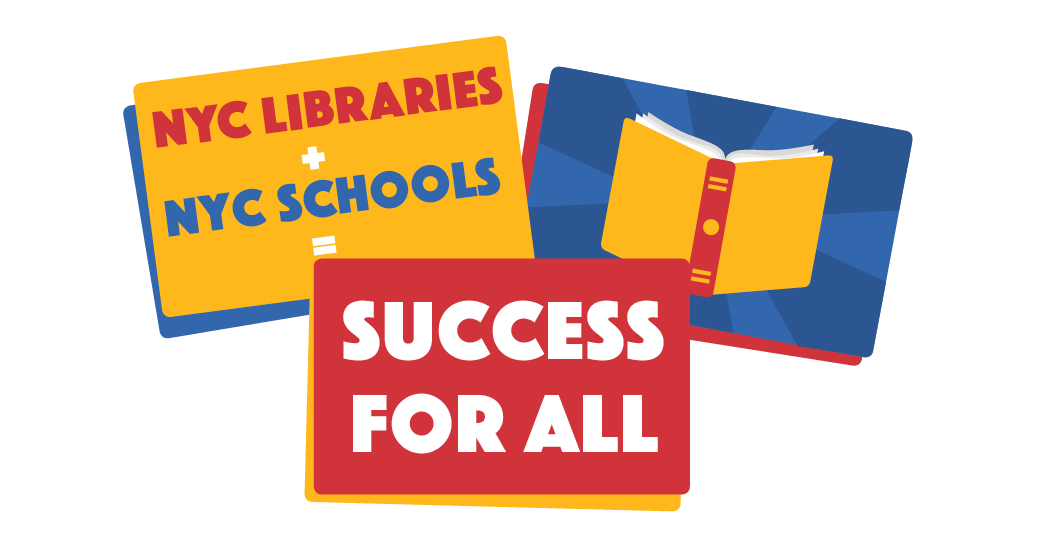
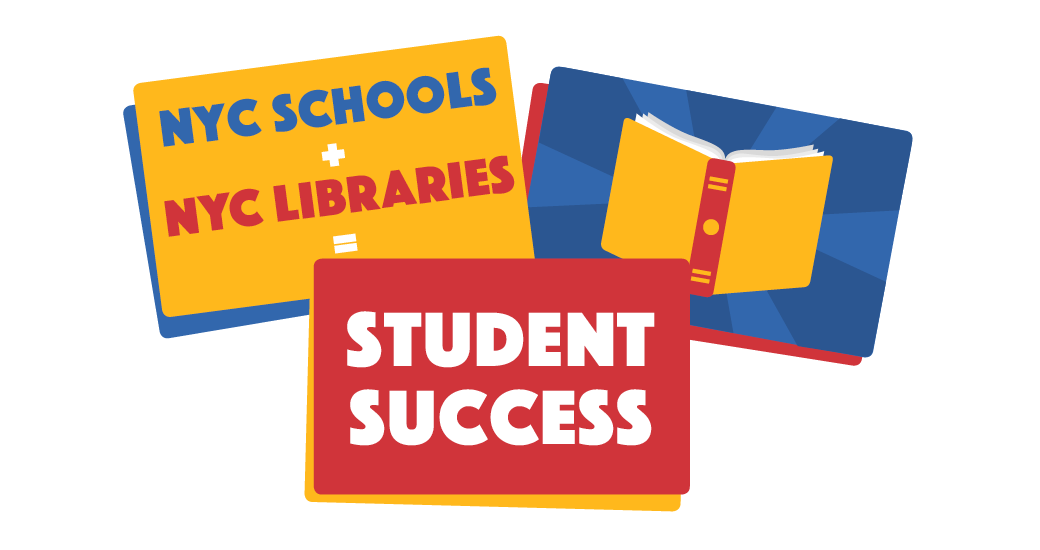
Copy and image updates

Changed region(s): [[0.1231, 0.1236, 0.4923, 0.4636], [0.3077, 0.5255, 0.6462, 0.68], [0.3385, 0.7109, 0.6462, 0.8345]]

diff --git a/schools/index.html b/schools/index.html
@@ -4,8 +4,8 @@
 <head>
   <meta charset="utf-8">
   <meta http-equiv="x-ua-compatible" content="ie=edge">
-  <title>N.Y.C. Libraries + N.Y.C. Schools = Success For All</title>
-  <meta name="description" content="N.Y.C. Libraries + N.Y.C. Schools = Success For All">
+  <title>N.Y.C. Schools | N.Y.C. Libraries = Student Success</title>
+  <meta name="description" content="N.Y.C. Schools | N.Y.C. Libraries = Student Success">
   <meta name="viewport" content="width=device-width, initial-scale=1">
   <link rel="manifest" href="../site.webmanifest">
   <!-- Place favicon.ico in the root directory -->
@@ -27,12 +27,12 @@
   <div class="full-width-wrapper">
     <div class="row">
       <div class="column-full">
-        <h1 id="main-header" class="screenreader-only">N.Y.C. Libraries + N.Y.C. Schools = Success For All</h1>
+        <h1 id="main-header" class="screenreader-only">N.Y.C. Schools | N.Y.C. Libraries = Student Success</h1>
         <div class="header-image">
-          <img src="img/success-header.png" alt="cartoon graphic displaying N.Y.C. Libraries + N.Y.C. Schools = Success For All" aria-labelledby="main-header">
+          <img src="img/success-header.png" alt="cartoon graphic displaying N.Y.C. Schools | N.Y.C. Libraries = Student Success" aria-labelledby="main-header">
         </div>
-        <div class="subhead" lang="es-419">Bibliotecas de N.Y.C. + Escuelas de N.Y.C. = Éxito para todos</div>
-        <div class="subhead chinese-text" lang="zh">N.Y.C.圖書館 + N.Y.C.學校 = 為所有人帶來成功</div>
+        <div class="subhead" lang="es-419">Escuelas De N.Y.C. + Bibliotecas De N.Y.C. = Éxito Para Los Estudiantes</div>
+        <div class="subhead chinese-text" lang="zh">N.Y.C.學校 + N.Y.C. 圖書館 = 學生的成功</div>
       </div>
     </div>
   </div>
